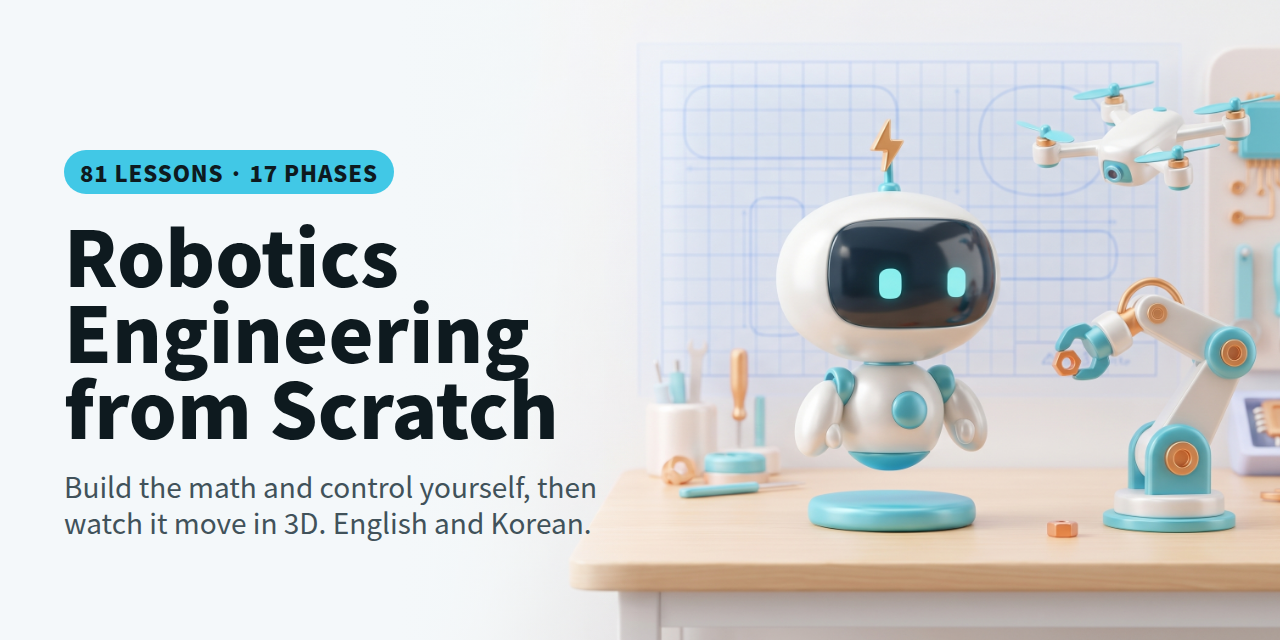
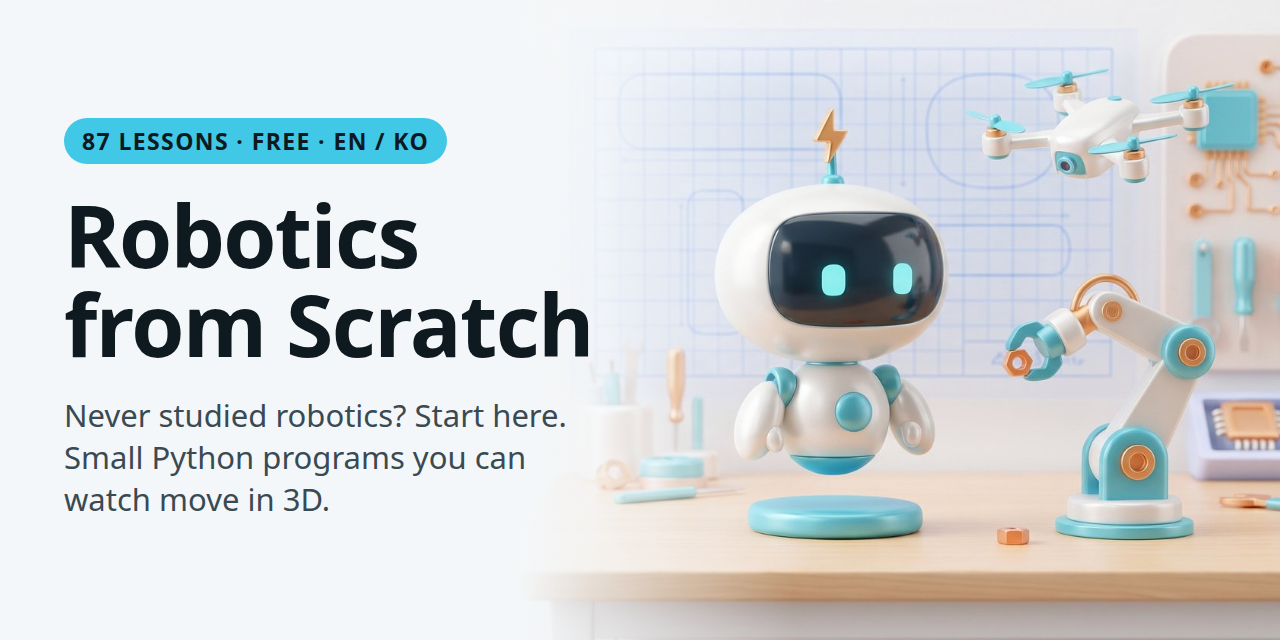
README: curiosity questions up top, refreshed social card
- Six questions the course answers, each linking to its lesson
- Social card: 87 lessons, beginner-first tagline, now built by scripts/social_card.cjs
- readme_roadmap.py matches the plain labels in the roadmap picture

Changed region(s): [[0.0312, 0.0625, 1.0, 1.0], [0.75, 0.0938, 0.7812, 0.125]]

diff --git a/scripts/readme_roadmap.py b/scripts/readme_roadmap.py
@@ -7,13 +7,13 @@ from excal import Diagram  # noqa: E402
 
 d = Diagram(cell=(330, 200))
 d.title("17 phases, one path", size=34)
-a = d.box("00-01  Start\nsetup and math", 0, 0, "blue", w=280, h=100, size=21)
+a = d.box("00-01  Start\nfirst ideas, math", 0, 0, "blue", w=280, h=100, size=21)
 b = d.box("02-04  The arm\nreach, force, motors", 1, 0, "blue", w=280, h=100, size=21)
-c = d.box("05-07  Know\nROS, sensing, filters", 2, 0, "yellow", w=280, h=100, size=21)
-e = d.box("08-10  Move\nmobile, planning, legs", 2, 1, "purple", w=280, h=100, size=21)
-f = d.box("11-13  Act\ncontact, sim, learning", 1, 1, "purple", w=280, h=100, size=21)
-g = d.box("14-16  Ship\nfleets, safety, builds", 0, 1, "green", w=280, h=100, size=21)
+c = d.box("05-07  Know\nsoftware, sensors", 2, 0, "yellow", w=280, h=100, size=21)
+e = d.box("08-10  Move\nwheels, paths, legs", 2, 1, "purple", w=280, h=100, size=21)
+f = d.box("11-13  Act\ntouch, testing, learning", 1, 1, "purple", w=280, h=100, size=21)
+g = d.box("14-16  Ship\nteams, safety, projects", 0, 1, "green", w=280, h=100, size=21)
 for x, y in ((a, b), (b, c), (c, e), (e, f), (f, g)):
     d.arrow(x, y)
-d.note("81 lessons. Every one: pictures, a few lines of numpy, a quiz.", d.margin, d.margin + 60 + 2 * d.ch - 40, size=22)
+d.note("87 lessons. Every one: pictures, a little Python, a quiz.", d.margin, d.margin + 60 + 2 * d.ch - 40, size=22)
 d.save(pathlib.Path(__file__).resolve().parents[1] / "docs" / "img" / "roadmap.excalidraw")

diff --git a/README.md b/README.md
@@ -10,6 +10,19 @@ A free, beginner-first course on how robots work. No robotics background needed:
 
 87 short lessons (about 15 minutes each) in 17 phases: robot arms, wheeled and walking robots, drones, cameras and sensors, path planning, robot learning, robot teams and safety. Full list: [ROADMAP.md](ROADMAP.md).
 
+## Questions you will be able to answer
+
+Each one is a 15-minute lesson with a small program you can run.
+
+- [Why does a robot that is standing perfectly still think it is rolling away?](phases/07-state-estimation/03-imu-integration-and-drift/docs/en.md)
+- [Why must a drone tilt before it can move sideways?](phases/10-legged-and-aerial/03-quadrotor-model/docs/en.md)
+- [How does a walking robot know early that it is about to fall, and where to step?](phases/10-legged-and-aerial/01-inverted-pendulum-and-zmp/docs/en.md)
+- [Why can a robot say it came home when it did not?](phases/08-mobile-robots/01-differential-drive-and-odometry/docs/en.md)
+- [Why does a gearbox make a heavy load feel almost weightless to the motor?](phases/04-actuators-and-sensors/01-motor-and-gearbox/docs/en.md)
+- [How does a lost robot find itself after someone picks it up and moves it?](phases/08-mobile-robots/02-particle-filter-localisation/docs/en.md)
+
+New to all of this? Start with [What Is a Robot](phases/00-start-here/01-what-is-a-robot/docs/en.md).
+
 ## Who this is for
 
 You have never studied robotics. You can write a little Python (variables, loops, functions). You remember high-school math. That is enough. Every new word is explained the first time it appears, and each lesson starts with a short story in everyday words before any math.
@@ -100,7 +113,7 @@ Forks and pull requests are welcome, from a typo to a whole new lesson. Run the 
 
 MIT, see [LICENSE](LICENSE). The lesson shape follows [rohitg00/ai-engineering-from-scratch](https://github.com/rohitg00/ai-engineering-from-scratch) (MIT). The text, code and figures here are original. The Bolt mascot picture below, the 17 phase covers, the social card background and the Bolt animation are AI-generated (Higgsfield), from the Bolt mascot. Models and prompts are in [docs/img/AI-ART.md](docs/img/AI-ART.md). The lesson figures are drawn in code, not generated.
 
-To regenerate the pictures above, run `python3 scripts/readme_roadmap.py`, `node scripts/render_excalidraw.cjs docs/img/roadmap.excalidraw` and `node scripts/readme_shots.cjs cli`.
+To regenerate the pictures above, run `python3 scripts/readme_roadmap.py`, `node scripts/render_excalidraw.cjs docs/img/roadmap.excalidraw`, `node scripts/readme_shots.cjs cli` and `node scripts/social_card.cjs`.
 
 <img src="docs/img/hero-bolt.jpg" width="360" alt="Bolt, the course mascot, waves in a toy robotics workshop while a small arm lifts a hex nut and a drone drifts past">
 
